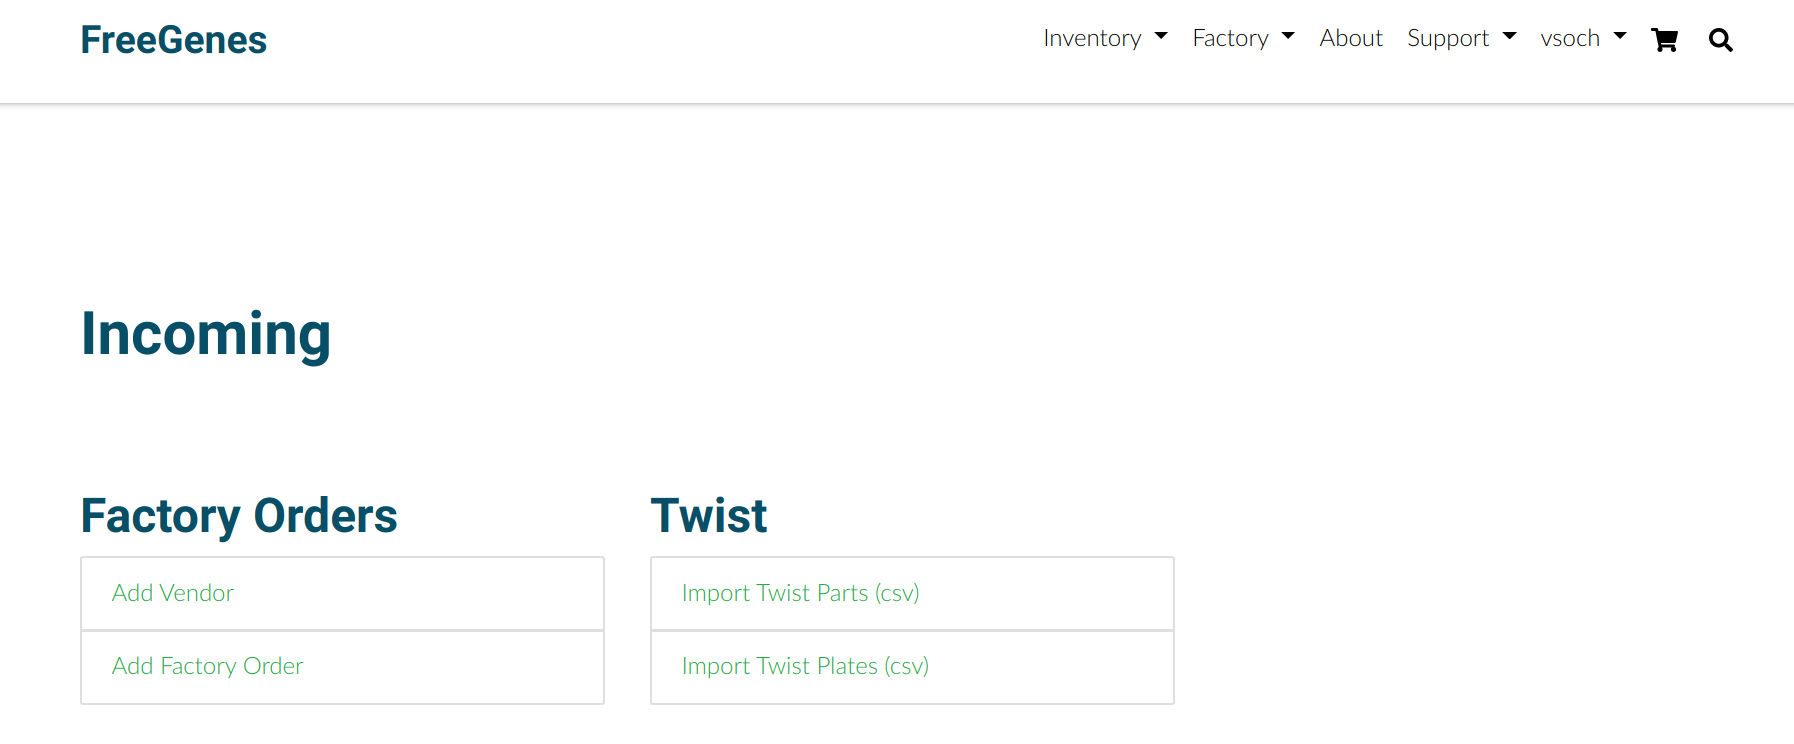
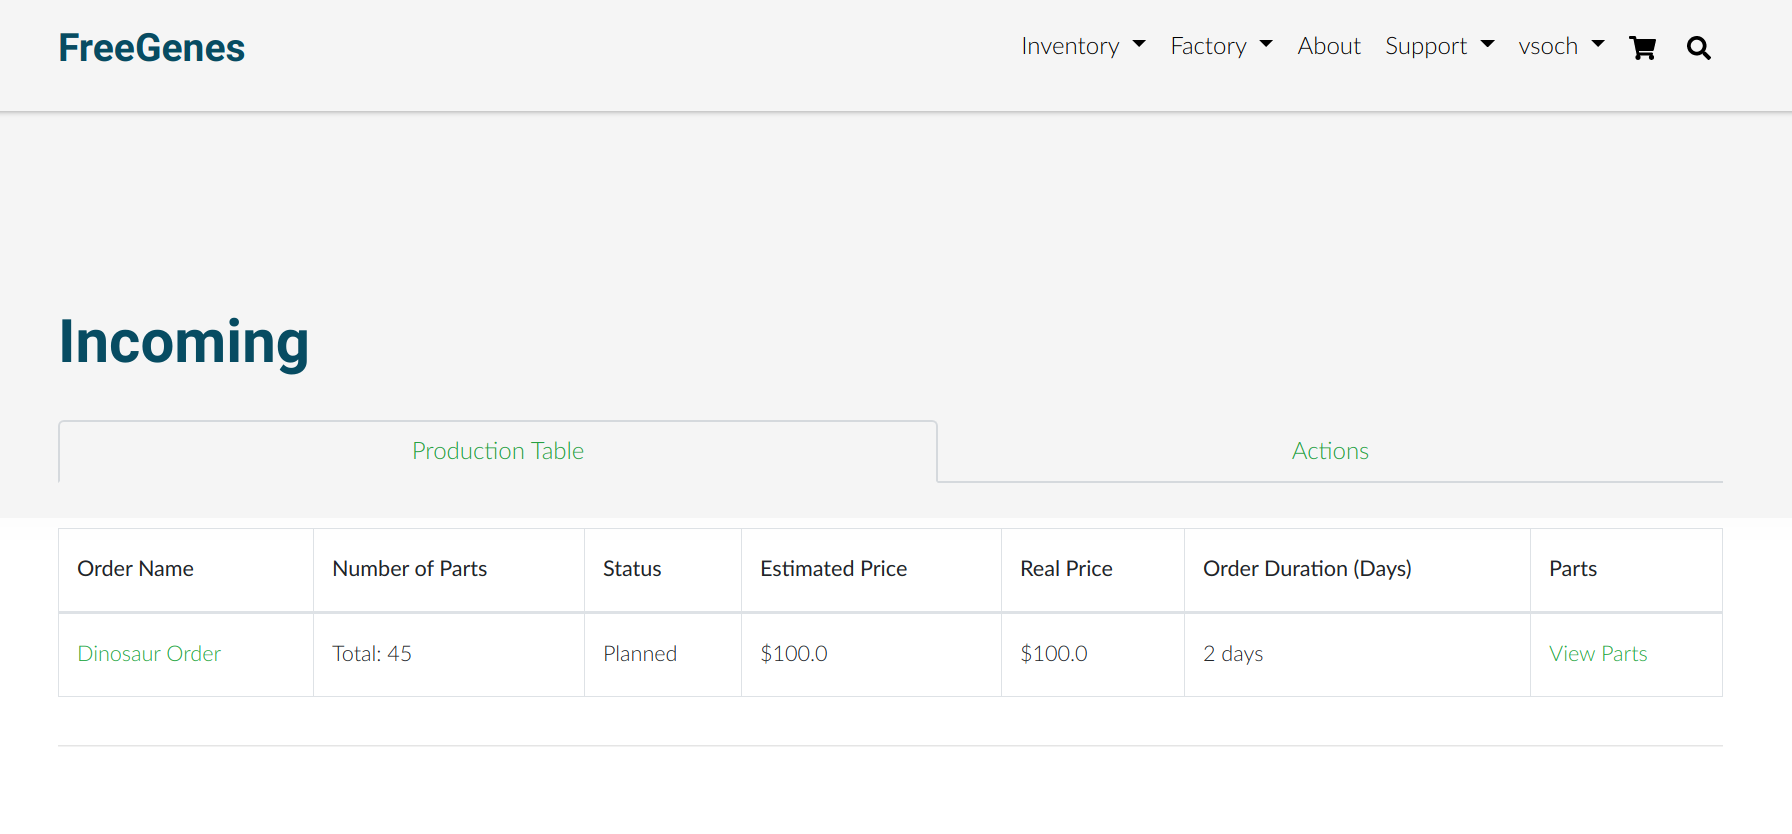
adding production table to factory page, organizing into tabs

diff --git a/fg/apps/factory/templates/factory/incoming.html b/fg/apps/factory/templates/factory/incoming.html
@@ -15,24 +15,54 @@
     </div>
   </div>
   <div class="row">
-    <div class="col-md-4">
-      <h2>Factory Orders</h2>
-      <div class="list-group">
-         <a class="list-group-item list-group-item-action" href="{% url 'admin:factory_vendor_add' %}">Add Vendor</a>
-         <a class="list-group-item list-group-item-action" href="{% url 'admin:factory_factoryorder_add' %}">Add Factory Order</a>
-      </div>
+    <div class="col-md-12">
+        <nav>
+            <div class="nav nav-tabs nav-fill" id="nav-tab" role="tablist">
+                <a class="nav-item nav-link active" id="nav-table-tab" data-toggle="tab" href="#nav-table" role="tab" aria-controls="nav-table" aria-selected="true">Production Table</a>
+                <a class="nav-item nav-link" id="nav-actions-tab" data-toggle="tab" href="#nav-actions" role="tab" aria-controls="nav-actions" aria-selected="false">Actions</a>
+            </div>
+        </nav>
+        <div class="tab-content" id="nav-tabContent">
+            <div class="tab-pane fade show active" id="nav-table" role="tabpanel" aria-labelledby="nav-table-tab">
+		  {% if orders %}<div class="row" style="margin-top:30px">
+		    <div class="col-md-12">
+		      {% include "tables/production_table.html" with table_id="production_table" %}
+		    </div>
+		  </div><hr>{% else %}
+		  <p class="alert alert-info">There are currently no Factory Orders</p>
+		  {% endif %}
+            </div>
+            <div class="tab-pane fade" id="nav-actions" role="tabpanel" aria-labelledby="nav-actions-tab">
+	    <div class="row" style="padding-bottom:100px">
+	    <div class="col-md-4">
+	      <h2>Factory Orders</h2>
+	      <div class="list-group">
+		 <a class="list-group-item list-group-item-action" href="{% url 'admin:factory_vendor_add' %}">Add Vendor</a>
+		 <a class="list-group-item list-group-item-action" href="{% url 'admin:factory_factoryorder_add' %}">Add Factory Order</a>
+	      </div>
+	    </div>
+	    <div class="col-md-4">
+	      <h2>Twist</h2>
+	      <div class="list-group">
+		 <a class="list-group-item list-group-item-action" href="{% url 'twist_import_parts' %}">Import Twist Parts (csv)</a>
+		 <a class="list-group-item list-group-item-action" href="{% url 'twist_import_plates' %}">Import Twist Plates (csv)</a>
+	      </div>
+	    </div>
+	    <div class="col-md-4">
+	    </div>
+	  </div>
+            </div>
+        </div>
     </div>
-    <div class="col-md-4">
-      <h2>Twist</h2>
-      <div class="list-group">
-         <a class="list-group-item list-group-item-action" href="{% url 'twist_import_parts' %}">Import Twist Parts (csv)</a>
-         <a class="list-group-item list-group-item-action" href="{% url 'twist_import_plates' %}">Import Twist Plates (csv)</a>
-      </div>
-    </div>
-    <div class="col-md-4">
-    </div>
-  </div>
 </div>
 {% endblock %}
 {% block pagescripts %}
+<link href="https://cdn.datatables.net/1.10.19/css/dataTables.bootstrap4.min.css" rel="stylesheet" type="text/css" />
+<script src="//cdn.datatables.net/1.10.19/js/jquery.dataTables.min.js"></script>
+<script src="https://cdn.datatables.net/1.10.19/js/dataTables.bootstrap4.min.js"></script>
+<script>
+$(document).ready(function() {
+  $('#production-table').DataTable();
+});
+</script>
 {% endblock %}

diff --git a/fg/apps/factory/templates/tables/production_table.html b/fg/apps/factory/templates/tables/production_table.html
@@ -1,0 +1,25 @@
+{% load factory_template_tags %}
+                <table class="table table-bordered" id="{{ table_id }}" width="100%" cellspacing="0">
+                    <thead>
+                        <tr>
+                            <th>Order Name</th>
+                            <th>Number of Parts</th>
+                            <th>Status</th>
+                            <th>Estimated Price</th>
+                            <th>Real Price</th>
+                            <th>Order Duration (Days)</th>
+                            <th>Parts</th>
+                        </tr>
+                    </thead>
+                    <tbody>{% for order in orders %}
+                        <tr>
+                            <td><a href="{% url 'admin:factory_factoryorder_change' order.uuid %}">{{ order.name }}</a></td>
+                            <td>Total: {{ order.parts.count }}</td>
+                            <td>{% if order.status %}{{ order.status }}{% endif %}</td>
+                            <td>{% if order.estimated_price %}${{ order.estimated_price }}{% endif %}</td>
+                            <td>{% if order.real_price %}${{ order.real_price }}{% endif %}</td>
+                            <td>{% if order.is_completed %}{{ order.duration_days }} days{% else %}Not Completed{% endif %}</td>
+                            <td>{% if order.parts.count > 0 %}<a href="{% url 'view_factoryorder_parts' order.uuid %}">View Parts</a>{% endif %}</td>
+                        </tr>{% endfor %}
+                    </tbody>
+                </table>

diff --git a/fg/apps/factory/templates/tables/twist_parts.html b/fg/apps/factory/templates/tables/twist_parts.html
@@ -1,0 +1,29 @@
+{% extends "base/page.html" %}
+{% load staticfiles %}
+{% block content %}
+<div class="container" style='padding-top:200px'>
+  {% include "messages/message.html" %}
+  <div class="row">
+    <div class="col-md-12" style="padding-bottom:50px">
+      <h1>Factory Order {{ order.name }} Parts</h1>
+      <p>Total Parts: {{ order.parts.count }}</p>
+      <p><a href="{% url 'factory' %}"><< Back to Factory Dashboard</a></p> 
+    </div>
+  </div>
+  <div class="row">
+    <div class="col-md-12">
+      {% include "tables/part_table.html" with table_id="parts-table" parts=order.parts.all %}
+   </div>
+  </div>
+</div>
+{% endblock %}
+{% block pagescripts %}
+<link href="https://cdn.datatables.net/1.10.19/css/dataTables.bootstrap4.min.css" rel="stylesheet" type="text/css" />
+<script src="//cdn.datatables.net/1.10.19/js/jquery.dataTables.min.js"></script>
+<script src="https://cdn.datatables.net/1.10.19/js/dataTables.bootstrap4.min.js"></script>
+<script>
+$(document).ready(function() {
+  $('#parts-table').DataTable();
+});
+</script>
+{% endblock %}

diff --git a/fg/apps/main/templates/tables/part_table.html b/fg/apps/main/templates/tables/part_table.html
@@ -14,9 +14,9 @@
                         <tr>
                             <td><a href="{{ part.get_absolute_url }}">{{ part.name }}</a></td>
                             <td>{% if part.author %}<a href="{{ part.author.get_absolute_url }}">{{ part.author.name }}</a>{% endif %}</td>
-                            <td>{{ part.part_type }}</td>
-                            <td>{{ part.description }}</td>
-                            <td>{{ part.status }}</td>
+                            <td>{% if part.part_type %}{{ part.part_type }}{% endif %}</td>
+                            <td>{% if part.description %}{{ part.description }}{% endif %}</td>
+                            <td>{% if part.status %}{{ part.status }}{% endif %}</td>
                             <td>{{ part.gene_id }}</td>
                             <td>{% for tag in part.tags.all %}<a href="{{ tag.get_absolute_url }}">{{ tag.tag }}</a> {% endfor %}</td>
                         </tr>{% endfor %}

diff --git a/fg/apps/factory/views/factory.py b/fg/apps/factory/views/factory.py
@@ -16,6 +16,7 @@ from django.http import (
 )
 from django.shortcuts import render
 from django.shortcuts import redirect
+from fg.apps.factory.models import FactoryOrder
 
 from ratelimit.decorators import ratelimit
 from fg.settings import (
@@ -33,4 +34,24 @@ def factory_view(request):
         messages.info(request, "You are not allowed to see this view.")
         return redirect('dashboard')
 
-    return render(request, 'factory/incoming.html')
+    orders = FactoryOrder.objects.all()
+    return render(request, 'factory/incoming.html', {"orders": orders})
+
+
+@login_required
+@ratelimit(key='ip', rate=rl_rate, block=rl_block)
+def view_factoryorder_parts(request, uuid):
+    '''Given a unique ID for a factory order, show a table of parts 
+       associated. This view is linked from the main factory page.
+    '''
+    if not request.user.is_staff or not request.user.is_superuser:
+        messages.info(request, "You are not allowed to see this view.")
+        return redirect('dashboard')
+
+    try:
+        order = FactoryOrder.objects.get(uuid=uuid)
+    except FactoryOrder.DoesNotExist:
+        messages.info(request, "This factory order does not exist.")
+        return redirect('factory')
+
+    return render(request, 'tables/twist_parts.html', {"order": order})

diff --git a/fg/apps/factory/models.py b/fg/apps/factory/models.py
@@ -91,6 +91,21 @@ class FactoryOrder(models.Model):
                                    related_name="factoryorder_parts",
                                    related_query_name="factoryorder_parts")
 
+    def is_completed(self):
+        '''determine if an order is completed based on having an end date.
+        '''
+        if self.finish_date is not None and self.start_date is not None:
+            return True
+        return False
+
+    @property
+    def duration_days(self):
+        '''return the duration of the order (in days), 
+           given that it is completed.
+        '''
+        if self.is_completed:
+            return (self.finish_date - self.start_date).days
+
     def __str__(self):
         return "<FactoryOrder:%s>" % self.name
 

diff --git a/fg/apps/factory/urls.py b/fg/apps/factory/urls.py
@@ -16,6 +16,7 @@ urlpatterns = [
     url(r'^$', views.factory_view, name='factory'),
     url(r'^twist/plates/import$', views.twist_import_plates, name='twist_import_plates'),
     url(r'^twist/parts/import$', views.twist_import_parts, name='twist_import_parts'),
+    url(r'^factoryorder/parts/(?P<uuid>.+)$', views.view_factoryorder_parts, name='view_factoryorder_parts'),
 
     # Lab Map
     url(r'map/?$', views.lab_map_view, name='lab_map'),

diff --git a/fg/apps/factory/views/__init__.py b/fg/apps/factory/views/__init__.py
@@ -1,5 +1,6 @@
 from .factory import (
-    factory_view
+    factory_view,
+    view_factoryorder_parts
 )
 
 from .twist import (

diff --git a/docs/_docs/usage/interface.md b/docs/_docs/usage/interface.md
@@ -78,12 +78,16 @@ start and finish dates, prices, and upload Invoices.
 
 Most of the updates to these models can be handled with the Admin interface, but
 for custom functionality we also have the Factory views page.
-This page is only viewable by staff and superusers. We start
-with a selection of options for the lab staff, which is currently sparse because
+This page is only viewable by staff and superusers. The main tab shows
+the production table for factory orders:
+
+![factory_incoming.png]({{ site.baseurl }}/docs/usage/img/factory_incoming.png)
+
+And the Actions tab shows a selection of options for the lab staff, which is currently sparse because
 we are only working on importing from Twist and creating orders
 (but many other functions are likely to result):
 
-![factory_incoming.png]({{ site.baseurl }}/docs/usage/img/factory_incoming.png)
+![factory_incoming_actions.png]({{ site.baseurl }}/docs/usage/img/factory_incoming_actions.png)
 
 ### Import Twist Parts
 
